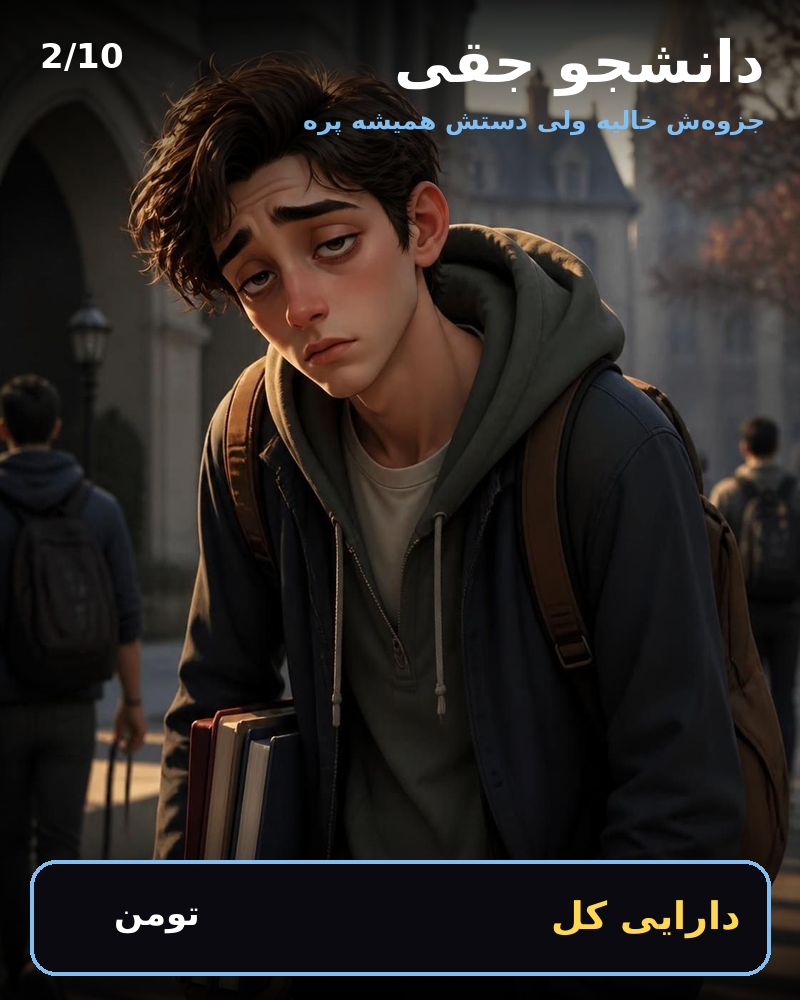
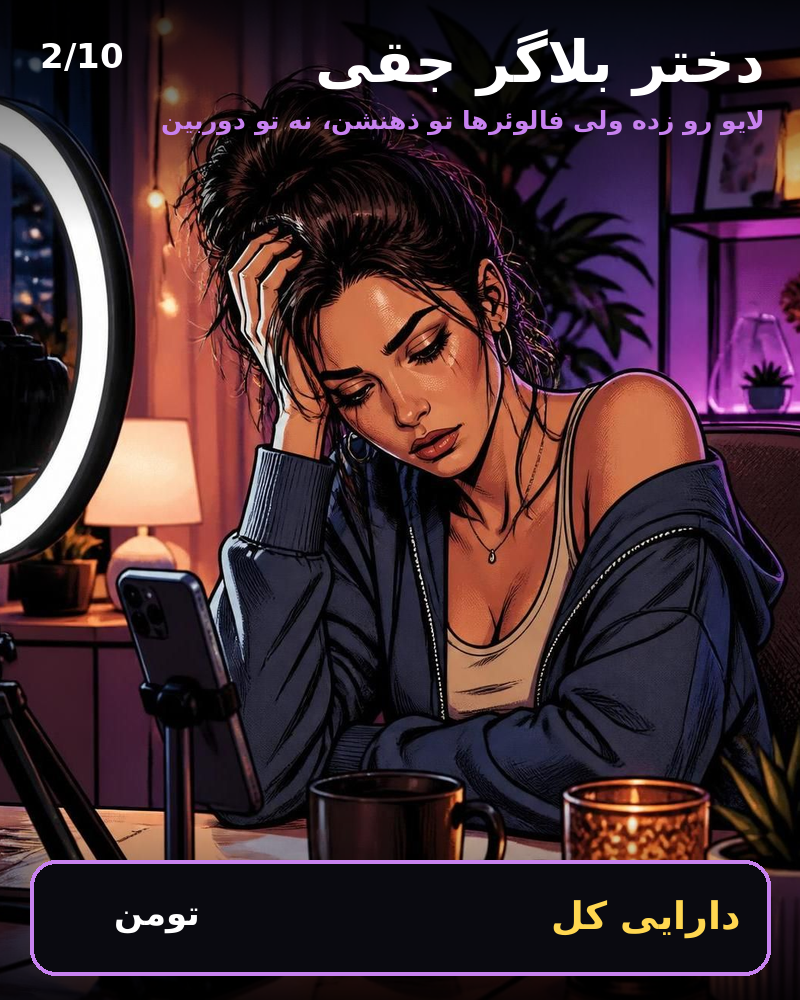
Ghost

diff --git a/bot.py b/bot.py
@@ -1,7 +1,9 @@
+import asyncio
 import html
 import logging
 import os
 import random
+import re
 import time
 
 import asyncpg
@@ -116,36 +118,51 @@ CHARACTERS = {
         ("میلیاردر بیخواب", "راکت داره، ربات داره، خواب نداره."),
     ],
     "f": [
-        ("سرباز جقی", "تازه از پادگان اومده، هنوز دستش گرم نشده."),
-        ("دانشجو جقی", "جزوهش خالیه ولی دستش همیشه پره."),
-        ("راننده تاکسی جقی", "کرایه نمیگیره، فقط میپیچونه."),
-        ("فروشنده جقی", "ساعت ۳ شبه و فقط یه مشتری داره."),
-        ("وکیل جقی", "پروندهها رو ول کرده و خوابیده."),
-        ("فضانورد جقی", "تا مدار زمین رفته ولی دستش هنوز همونجاست."),
-        ("آقای رئیس خسته", "جلسه ۴ ساعته شد و هنوز ساعت یک ظهره."),
-        ("رئیسجمهور چرتی", "وسط جلسه خوابید، کسی بیدارش نمیکنه."),
-        ("رهبر خوابآلود", "از خستگیه یا از حوصلهسررفتگی؟."),
-        ("میلیاردر بیخواب", "راکت داره، ربات داره، خواب نداره."),
+        ("دختر دانشجو جقی", "جزوهها رو باز کرده ولی فقط به یه چیز فکر میکنه."),
+        ("دختر بلاگر جقی", "لایو رو زده ولی فالوئرها تو ذهنشن، نه تو دوربین."),
+        ("دختر رقاص جقی", "روی صحنه میرقصه، پشت صحنه خستهست."),
+        ("دختر ناخنکار جقی", "ناخن مشتری رو میکشه، حواسش جای دیگهست."),
+        ("دختر دندانپزشک جقی", "ماسکش افتاده و کسی نمیپرسه چرا."),
+        ("دختر داروخونهای جقی", "برای همه نسخه میپیچه، برای خودش نه."),
+        ("دختر وکیل جقی", "پروندهها رو بسته و دلیلش رو فقط خودش میدونه."),
+        ("دختر فضانورد جقی", "تا مدار زمین رفته ولی دلش هنوز همینجاست."),
+        ("دختر رازآلود جقی", "منتظر عکس جدید."),
+        ("دختر میلیاردر جقی", "پول رو دور خودش ریخته و خوابش نمیاد."),
     ],
 }
 
 # ایموجی پرمیومِ هر سطح (کنار اسم کاراکتر تو کپشن میاد)
 CHAR_EMOJIS = {
-    1: ["5253988473349640454"],
-    2: ["6325398374921016616", "5447485932674494985"],
-    3: ["5379668974596302326"],
-    4: ["5947405845162629459"],
-    5: ["5992274629769566150", "5992496323096483934"],
-    6: ["5992127827787388962", "5992470763746105553"],
-    7: ["5947405845162629459"],
-    8: ["5285185006958828732", "5388837552952205051"],
-    9: ["5947405845162629459"],
-    10: ["6316490939166625054", "5343870765781493324", "5071341394199578555"],
+    "m": {
+        1: ["5253988473349640454"],
+        2: ["6325398374921016616", "5447485932674494985"],
+        3: ["5379668974596302326"],
+        4: ["5947405845162629459"],
+        5: ["5992274629769566150", "5992496323096483934"],
+        6: ["5992127827787388962", "5992470763746105553"],
+        7: ["5947405845162629459"],
+        8: ["5285185006958828732", "5388837552952205051"],
+        9: ["5947405845162629459"],
+        10: ["6316490939166625054", "5343870765781493324", "5071341394199578555"],
+    },
+    "f": {
+        1: ["5469905619009951647"],
+        2: ["5379814861750443581"],
+        3: ["5226754369193523447"],
+        4: ["5379814861750443581"],
+        5: ["5379814861750443581"],
+        6: ["5379814861750443581"],
+        7: ["5226703465241133001"],
+        8: ["5379814861750443581"],
+        9: ["5379814861750443581"],
+        10: ["5343870765781493324"],
+    },
 }
 
 
-def char_emojis(lvl: int) -> str:
-    return "".join(f'<tg-emoji emoji-id="{e}">⭐</tg-emoji>' for e in CHAR_EMOJIS.get(lvl, []))
+def char_emojis(gender: str, lvl: int) -> str:
+    return "".join(f'<tg-emoji emoji-id="{e}">⭐</tg-emoji>' for e in CHAR_EMOJIS.get(gender, {}).get(lvl, []))
+
 
 GENDER_WORDS = {
     "m": "m", "مرد": "m", "آقا": "m", "پسر": "m",
@@ -551,7 +568,7 @@ def card_text(name: str, gender: str, balance: int) -> str:
     lines = [
         f"{ce('me', 1, '🎖')} {html.escape(name)}",
         "",
-        f"سطح {lvl} از {len(LEVEL_THRESHOLDS)}: {html.escape(title)} {char_emojis(lvl)}",
+        f"سطح {lvl} از {len(LEVEL_THRESHOLDS)}: {html.escape(title)} {char_emojis(gender, lvl)}",
         html.escape(tagline),
         "",
         f"{ce('wallet', 1, '💰')} موجودی: {balance:,} تومن",
@@ -571,9 +588,9 @@ BASE_DIR = Path(__file__).parent
 _FA_DIGITS = str.maketrans("0123456789,", "۰۱۲۳۴۵۶۷۸۹،")
 
 
-def render_card_image(level: int, balance: int) -> BytesIO | None:
+def render_card_image(gender: str, level: int, balance: int) -> BytesIO | None:
     """عکس آمادهی سطح (چاپشده با اسم و لقب) رو برمیدارد و عدد دارایی رو تو کادر پایینش مینویسه."""
-    path = BASE_DIR / "chars" / f"char_{level}.png"
+    path = BASE_DIR / "chars" / gender / f"char_{level}.png"
     if not path.exists():
         return None
     im = Image.open(path).convert("RGB")
@@ -581,35 +598,45 @@ def render_card_image(level: int, balance: int) -> BytesIO | None:
     font = ImageFont.truetype(str(BASE_DIR / "fonts" / "DejaVuSans-Bold.ttf"), 52)
     d.text((355, 912), f"{balance:,}".translate(_FA_DIGITS), font=font, fill=(255, 255, 255), anchor="mm")
     out = BytesIO()
-    im.save(out, "PNG")
+    im.save(out, "JPEG", quality=92)
     out.seek(0)
-    out.name = f"char_{level}.png"
+    out.name = f"char_{level}.jpg"
     return out
 
 
 async def send_card(bot, chat_id: int, row, reply_to: int | None = None):
-    """کارت کاراکتر کاربر: عکس (اگه ست شده باشه) + اسم و سطح و موجودی."""
+    """کارت کاراکتر کاربر: عکس + کپشن (اسم، سطح، موجودی). اگه یه مرحله خطا بده میره سراغ مرحلهی بعد، ولی تا جایی که بشه عکس همراه کپشن میاد."""
     gender = row["gender"]
-    text = card_text(row["name"] or "", gender, row["balance"])
     lvl = level_for(row["balance"])
-    fid = CHAR_PHOTOS.get((gender, lvl))  # اگه پشتیبان با /setphoto عکس دلخواه گذاشته باشه همون اولویت داره
-    if not fid:
-        try:
-            img = render_card_image(lvl, row["balance"])
-            if img:
-                rp0 = ReplyParameters(message_id=reply_to, allow_sending_without_reply=True) if reply_to else None
-                await bot.send_photo(chat_id, img, caption=text, parse_mode="HTML", reply_parameters=rp0)
-                return
-        except Exception as e:
-            log.warning("render card failed (%s) — sending text only", e)
+    text = card_text(row["name"] or "", gender, row["balance"])
     rp = ReplyParameters(message_id=reply_to, allow_sending_without_reply=True) if reply_to else None
-    if fid:
+
+    # کپشن بدون ایموجی پرمیوم (برای وقتی که تلگرام ایموجی رو قبول نکنه)
+    plain_text = re.sub(r"<tg-emoji[^>]*>(.*?)</tg-emoji>", r"\1", text)
+
+    photo = CHAR_PHOTOS.get((gender, lvl))  # عکس دلخواهِ پشتیبان (file_id) اولویت داره
+    if not photo:
         try:
-            await bot.send_photo(chat_id, fid, caption=text, parse_mode="HTML", reply_parameters=rp)
+            photo = await asyncio.to_thread(render_card_image, gender, lvl, row["balance"])
+        except Exception:
+            log.exception("render_card_image failed (level %s)", lvl)
+            photo = None
+
+    if photo:
+        for caption in (text, plain_text):
+            try:
+                if hasattr(photo, "seek"):
+                    photo.seek(0)
+                await bot.send_photo(chat_id, photo, caption=caption, parse_mode="HTML", reply_parameters=rp)
+                return
+            except Exception:
+                log.exception("send_photo failed (level %s)", lvl)
+    for t in (text, plain_text):
+        try:
+            await bot.send_message(chat_id, t, parse_mode="HTML", reply_parameters=rp)
             return
-        except Exception as e:
-            log.warning("send_photo failed (%s) — sending text only", e)
-    await bot.send_message(chat_id, text, parse_mode="HTML", reply_parameters=rp)
+        except Exception:
+            log.exception("send_message failed")
 
 
 def gender_keyboard(uid: int) -> InlineKeyboardMarkup:

diff --git a/make_cards.py b/make_cards.py
@@ -1,10 +1,11 @@
 """ساخت کارت کاراکترها از عکسهای art/char_N.jpg  →  chars/char_N.png
 اسم و لقب تو عکس پخته میشه؛ فقط عدد دارایی موقع ارسال تو ربات نوشته میشه. اجرا: python make_cards.py"""
+from pathlib import Path
 from PIL import Image, ImageDraw, ImageFont
 
 W, H = 800, 1000
 FONT = "fonts/DejaVuSans-Bold.ttf"
-CARDS = [
+CARDS_M = [
     ("سرباز جقی", "تازه از پادگان اومده، هنوز دستش گرم نشده", (200, 170, 110)),
     ("دانشجو جقی", "جزوهش خالیه ولی دستش همیشه پره", (130, 190, 240)),
     ("راننده تاکسی جقی", "کرایه نمیگیره، فقط میپیچونه", (250, 210, 80)),
@@ -17,9 +18,30 @@ CARDS = [
     ("میلیاردر بیخواب", "راکت داره، ربات داره، خواب نداره", (240, 200, 120)),
 ]
 
+
+# خانومها. سطح ۹ فعلا عکس نداره (عکس قبلی رد شد) و با کارت متنی میاد تا عکس جایگزین بدی.
+CARDS_F = [
+    ("دختر دانشجو جقی", "جزوهها رو باز کرده ولی فقط به یه چیز فکر میکنه", (240, 150, 120)),
+    ("دختر بلاگر جقی", "لایو رو زده ولی فالوئرها تو ذهنشن، نه تو دوربین", (200, 130, 240)),
+    ("دختر رقاص جقی", "روی صحنه میرقصه، پشت صحنه خستهست", (140, 160, 250)),
+    ("دختر ناخنکار جقی", "ناخن مشتری رو میکشه، حواسش جای دیگهست", (230, 120, 170)),
+    ("دختر دندانپزشک جقی", "ماسکش افتاده و کسی نمیپرسه چرا", (110, 200, 230)),
+    ("دختر داروخونهای جقی", "برای همه نسخه میپیچه، برای خودش نه", (130, 220, 190)),
+    ("دختر وکیل جقی", "پروندهها رو بسته و دلیلش رو فقط خودش میدونه", (240, 190, 90)),
+    ("دختر فضانورد جقی", "تا مدار زمین رفته ولی دلش هنوز همینجاست", (120, 190, 250)),
+    ("دختر رازآلود جقی", "منتظر عکس جدید", (200, 200, 200)),
+    ("دختر میلیاردر جقی", "پول رو دور خودش ریخته و خوابش نمیاد", (240, 200, 120)),
+]
+CARDS = {"m": CARDS_M, "f": CARDS_F}
+
 def fnt(s): return ImageFont.truetype(FONT, s, layout_engine=ImageFont.Layout.RAQM)
-def rtl(d, xy, t, size, fill):
-    d.text(xy, t, font=fnt(size), fill=fill, anchor="ra", direction="rtl", language="fa")
+def rtl(d, xy, t, size, fill, max_w=None):
+    """متن راستچین؛ اگه max_w بدی اندازهی فونت اونقدر کم میشه که تو عرض جا بشه."""
+    f = fnt(size)
+    while max_w and f.getlength(t, direction="rtl", language="fa") > max_w and size > 14:
+        size -= 2
+        f = fnt(size)
+    d.text(xy, t, font=f, fill=fill, anchor="ra", direction="rtl", language="fa")
 
 def cover(im, w, h):
     r = max(w / im.width, h / im.height)
@@ -27,8 +49,8 @@ def cover(im, w, h):
     x, y = (im.width - w) // 2, (im.height - h) // 3  # کمی بالاتر، برای صورت
     return im.crop((x, y, x + w, y + h))
 
-for i, (name, tag, accent) in enumerate(CARDS, 1):
-    base = cover(Image.open(f"art/char_{i}.jpg").convert("RGB"), W, H).convert("RGBA")
+def make(g, i, name, tag, accent):
+    base = cover(Image.open(f"art/{g}/char_{i}.jpg").convert("RGB"), W, H).convert("RGBA")
     ov = Image.new("RGBA", (W, H), (0, 0, 0, 0))
     od = ImageDraw.Draw(ov)
     for y in range(230):                       # سایه بالا
@@ -37,11 +59,17 @@ for i, (name, tag, accent) in enumerate(CARDS, 1):
         od.line([(0, y), (W, y)], fill=(0, 0, 0, int(225 * (y - (H - 190)) / 190)))
     base = Image.alpha_composite(base, ov)
     d = ImageDraw.Draw(base)
-    rtl(d, (765, 28), name, 58, (255, 255, 255))
-    rtl(d, (765, 105), tag, 25, accent)
+    rtl(d, (765, 28), name, 58, (255, 255, 255), max_w=620)
+    rtl(d, (765, 105), tag, 25, accent, max_w=700)
     d.text((40, 36), f"{i}/10", font=fnt(34), fill=(255, 255, 255), anchor="la")
     d.rounded_rectangle((30, 860, 770, 975), 26, fill=(10, 10, 16, 200), outline=accent, width=4)
     rtl(d, (740, 893), "دارایی کل", 38, (255, 215, 80))
     rtl(d, (200, 893), "تومن", 34, (255, 255, 255))
-    base.convert("RGB").save(f"chars/char_{i}.png")
+    base.convert("RGB").save(f"chars/{g}/char_{i}.png")
+
+
+for g, cards in CARDS.items():
+    for i, (name, tag, accent) in enumerate(cards, 1):
+        if Path(f"art/{g}/char_{i}.jpg").exists():
+            make(g, i, name, tag, accent)
 print("done")
